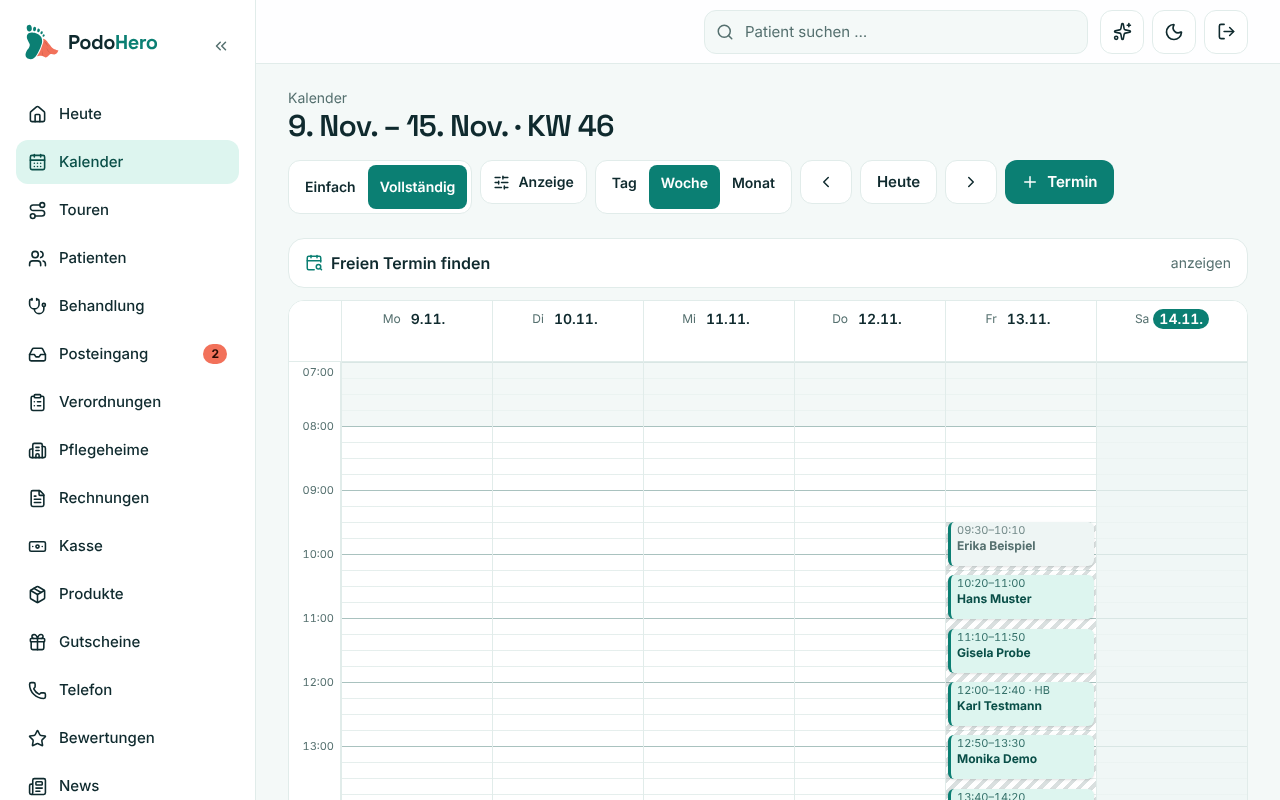
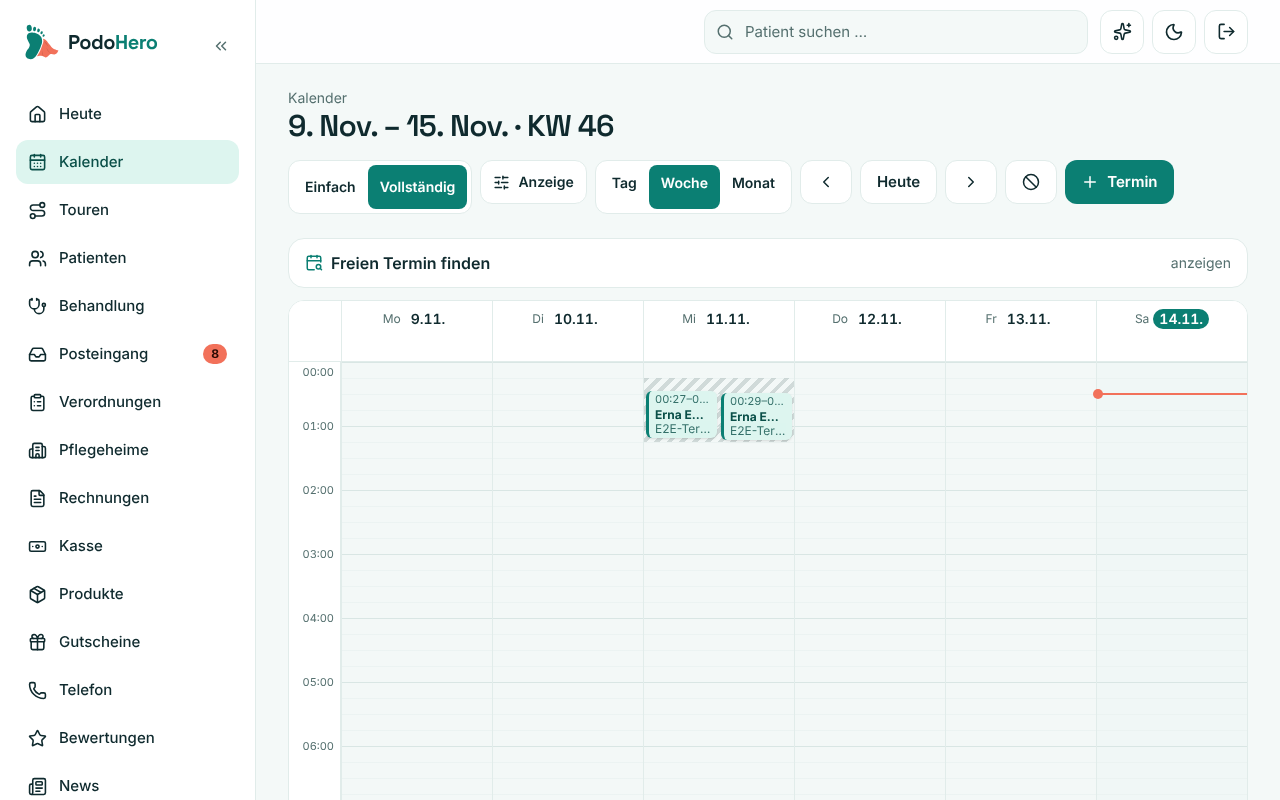
Web-App: Review-Punkte aus PR #73 (Recht, Sicherheit, Stabilität)
- Texte: „Keine Patientendaten auf dem Gerät“, Download-Hinweis, Web-App ohne App Store,
  Code-Sperre, Markenhinweis, Links zu Impressum/Datenschutz
- Datenschutzerklärung § 3: App-Dateien im Browser-Speicher, podo-install-hint, Cookie podo_nav (v0.4)
- Service Worker: keine Weiterleitungen cachen, /_next/static nur einfache Pfade ohne % und Query,
  Icons/Splash/Brand nur flache Dateinamen; Caches beim Abmelden leeren (LogoutForm)
- Proxy-Matcher: /brand/ ausgenommen, nur genau /sw.js
- Offline-Seite prüft alle 25 s /api/health; e2e wartet auf Hydrierung (5× stabil)
- Kein Installationshinweis in der Capacitor-Hülle (appendUserAgent PodoHeroNative / window.Capacitor)
- Update-Hinweis verschwindet bei controllerchange; SW-Version aus GIT_SHA + Build-Zeit, /sw.js statisch
- Kalender-Optionen auf dem Handy unter der Kopfzeile inkl. Safe-Area; Terminzeile: Statusbalken
  überdeckt auf dem Handy nicht mehr die Knöpfe; schmaler Manifest-Screenshot mit Demo-Terminen

Claude-Session: https://claude.ai/code/session_01XUjqP1rgkjcC9NRYu622iv

diff --git a/src/app/(public)/app/page.tsx b/src/app/(public)/app/page.tsx
@@ -1,6 +1,7 @@
 import { LinkButton } from "@/components/ui";
 import { InstallGuide } from "@/components/pwa/install-guide";
 import { pageMeta } from "../_content/site";
+import { TRADEMARKS } from "@/lib/pwa/app-meta";
 
 export const metadata = pageMeta({
   title: "PodoHero als App",
@@ -9,9 +10,9 @@ export const metadata = pageMeta({
 });
 
 const FACTS = [
-  ["Ohne App Store", "PodoHero wird aus dem Browser auf den Home-Bildschirm gelegt. Es gibt nichts herunterzuladen und keine eigene App-Version zu pflegen."],
-  ["Gleicher Stand überall", "iPad in der Behandlung, Computer am Empfang, Smartphone beim Hausbesuch: alle arbeiten mit denselben Daten. Updates kommen von selbst."],
-  ["Keine Daten auf dem Gerät", "Termine und Akten werden immer vom Server geladen und nicht offline auf dem Gerät gespeichert. Ohne Verbindung zeigt die App einen Hinweis."],
+  ["Ohne App Store", "Sie müssen nichts aus einem App Store laden: PodoHero wird aus dem Browser auf den Home-Bildschirm gelegt."],
+  ["Gleicher Stand überall", "iPad in der Behandlung, Computer am Empfang, Smartphone beim Hausbesuch: alle arbeiten mit denselben Daten. Updates kommen automatisch – ein Tipp auf „Neu laden“ genügt."],
+  ["Keine Patientendaten auf dem Gerät", "Termine, Akten und Fotos werden immer frisch vom Server geladen und nicht für die Offline-Nutzung auf dem Gerät gespeichert. Auf dem Gerät liegen nur die Anmeldung und Programmdateien. Ohne Verbindung zeigt die App einen Hinweis."],
 ] as const;
 
 /** Kurze, sachliche Infoseite zur installierbaren Web-App (öffentlich, ohne Praxisdaten). */
@@ -22,6 +23,10 @@ export default function AppInfoPage() {
       <p className="mt-4 text-lg text-muted">
         PodoHero läuft im Browser und lässt sich auf iPhone, iPad, Android-Geräten und am Computer wie eine App installieren:
         mit eigenem Symbol, im Vollbild und ohne Browserleiste.
+      </p>
+      <p className="mt-3 text-[15px] text-muted">
+        PodoHero ist eine Web-App – es gibt keine Version im App Store oder bei Google Play. Für die Nutzung ist eine
+        Internetverbindung nötig.
       </p>
       <ul className="mt-8 grid gap-4 sm:grid-cols-3">
         {FACTS.map(([title, text]) => (
@@ -34,6 +39,8 @@ export default function AppInfoPage() {
       <section aria-labelledby="anleitung" className="mt-10">
         <h2 id="anleitung" className="mb-4 font-display text-2xl font-semibold">So installieren Sie PodoHero</h2>
         <InstallGuide headingLevel={3} />
+        <p className="mt-4 text-sm text-muted">Nutzen Sie für die Praxis nur Geräte mit Code-Sperre.</p>
+        <p className="mt-2 text-xs text-muted">{TRADEMARKS}</p>
       </section>
       <div className="mt-10 flex flex-wrap gap-3">
         <LinkButton href="/login">Anmelden</LinkButton>

diff --git a/e2e/web-app.spec.ts b/e2e/web-app.spec.ts
@@ -178,7 +178,8 @@ test("Service Worker: registriert, nur statische Dateien im Cache, Offline-Seite
   // keine Patientendaten aus einem Cache
   await expect(page.getByRole("heading", { level: 1 })).toHaveText("Keine Internetverbindung");
   await shot(page, "offline-seite");
-  // wieder online → die Seite lädt von selbst neu (Ereignis „online“)
+  // Offline-Seite hydriert (Ereignis-Listener aktiv), dann wieder online → die Seite lädt von selbst neu
+  await expect(page.locator("html[data-offline-ready]")).toHaveCount(1);
   await context.setOffline(false);
   await expect(page).toHaveURL(new RegExp(`/kunden/${ids.patient}$`));
   await expect(page.getByRole("heading", { name: "Keine Internetverbindung" })).toHaveCount(0);
@@ -252,9 +253,17 @@ test("Bildschirmfotos: iPad quer Kalender (und auf Wunsch Manifest-Screenshots)"
     const out = path.resolve(__dirname, "../public/screenshots");
     const narrow = await newDevice(browser, { ...profile("iPhone 15"), viewport: { width: 390, height: 844 } }, { deviceScaleFactor: 2 });
     await narrow.context.addInitScript(standalone);
-    await narrow.page.goto("/heute");
+    // Woche mit Demo-Terminen (Termin-Liste)
+    await narrow.page.goto("/kalender?modus=einfach&ansicht=woche");
     await closeChangelog(narrow.page);
-    await narrow.page.screenshot({ path: path.join(out, "app-heute-narrow.png") });
+    // zum Tag mit den meisten Demo-Terminen scrollen (unter der festen Kopfzeile)
+    await narrow.page.evaluate(() => {
+      const days = Array.from(document.querySelectorAll("main section")).filter((x) => x.querySelector('a[href^="/kalender/termin/"]'));
+      const count = (x: Element) => x.querySelectorAll('a[href^="/kalender/termin/"]').length;
+      const best = days.sort((a, b) => count(b) - count(a))[0];
+      if (best) window.scrollTo(0, window.scrollY + best.getBoundingClientRect().top - 80);
+    });
+    await narrow.page.screenshot({ path: path.join(out, "app-kalender-narrow.png") });
     await narrow.context.close();
     const wide = await newDevice(browser, { ...profile("iPad Pro 11 landscape"), viewport: { width: 1280, height: 800 } }, { deviceScaleFactor: 1 });
     await wide.context.addInitScript(standalone);

diff --git a/src/app/(app)/einstellungen/app/page.tsx b/src/app/(app)/einstellungen/app/page.tsx
@@ -1,4 +1,6 @@
+import Link from "next/link";
 import { Card, CardTitle } from "@/components/ui";
+import { TRADEMARKS } from "@/lib/pwa/app-meta";
 import { InstallGuide } from "@/components/pwa/install-guide";
 import { requireAuth } from "@/lib/auth/session";
 
@@ -21,13 +23,21 @@ export default async function InstallAppSettings() {
         <CardTitle>Gut zu wissen</CardTitle>
         <ul className="flex list-disc flex-col gap-2 pl-5 text-[15px]">
           <li>
-            Praxis- und Patientendaten werden nicht auf dem Gerät gespeichert. Ohne Internetverbindung zeigt die App nur einen
-            Hinweis und lädt weiter, sobald die Verbindung zurück ist.
+            Praxis- und Patientendaten werden von PodoHero nicht auf dem Gerät zwischengespeichert. Ausnahme: Dateien, die Sie
+            selbst herunterladen (z. B. PDFs, Exporte), liegen danach im Download-Ordner des Geräts.
           </li>
+          <li>Ohne Internetverbindung zeigt die App nur einen Hinweis und lädt weiter, sobald die Verbindung zurück ist.</li>
           <li>Updates kommen von selbst. Bei einer neuen Version erscheint „Neue Version verfügbar – Neu laden“.</li>
           <li>In der installierten App gibt es keine Browser-Zurück-Taste – nutze die Zurück-Links oben auf den Seiten.</li>
+          <li>Nutzen Sie für die Praxis nur Geräte mit Code-Sperre.</li>
           <li>Auf gemeinsam genutzten Geräten nach der Arbeit abmelden oder den Übergabe-Modus nutzen.</li>
         </ul>
+        <p className="mt-4 text-sm">
+          <Link href="/impressum" className="font-semibold text-primary hover:underline">Impressum</Link>
+          {" · "}
+          <Link href="/datenschutz" className="font-semibold text-primary hover:underline">Datenschutz</Link>
+        </p>
+        <p className="mt-2 text-xs text-muted">{TRADEMARKS}</p>
       </Card>
     </div>
   );

diff --git a/src/app/(app)/layout.tsx b/src/app/(app)/layout.tsx
@@ -1,4 +1,5 @@
 import Link from "next/link";
+import { LogoutForm } from "@/components/pwa/logout-form";
 import { LogOut, Sparkles } from "lucide-react";
 import { AccessBanner } from "@/components/access-banner";
 import { cookies } from "next/headers";
@@ -57,11 +58,11 @@ function PlatformOnlyShell({ name, totpEnabled, switcher, children }: { name: st
           {switcher?.show ? <OrgSwitcher model={{ ...switcher, platformLink: false }} /> : null}
           <NewsLink />
           <ThemeToggle />
-          <form action={logoutAction}>
+          <LogoutForm action={logoutAction}>
             <button type="submit" aria-label="Abmelden" title="Abmelden" className="inline-flex size-11 items-center justify-center rounded-xl border border-border bg-surface hover:bg-surface-2">
               <LogOut size={19} aria-hidden />
             </button>
-          </form>
+          </LogoutForm>
         </div>
       </header>
       <main className="flex-1 pt-6 pr-[max(1rem,env(safe-area-inset-right))] pb-[max(2.5rem,env(safe-area-inset-bottom))] pl-[max(1rem,env(safe-area-inset-left))] lg:px-8">
@@ -125,7 +126,7 @@ export default async function AppLayout({ children }: LayoutProps<"/">) {
             <OrgSwitcher model={switcher} />
             <NewsLink />
             <ThemeToggle />
-            <form action={logoutAction}>
+            <LogoutForm action={logoutAction}>
               <button
                 type="submit"
                 aria-label="Abmelden"
@@ -134,7 +135,7 @@ export default async function AppLayout({ children }: LayoutProps<"/">) {
               >
                 <LogOut size={19} aria-hidden />
               </button>
-            </form>
+            </LogoutForm>
           </div>
         </header>
         <AccessBanner auth={auth} />

diff --git a/src/app/offline/retry-button.tsx b/src/app/offline/retry-button.tsx
@@ -3,12 +3,33 @@
 import { useEffect } from "react";
 import { RotateCw } from "lucide-react";
 
-/** Lädt die aufgerufene Seite neu – auf Knopfdruck oder von selbst, sobald der Browser wieder online meldet. */
+/** Abstand der automatischen Prüfung, solange die Seite sichtbar ist */
+const PROBE_MS = 25_000;
+
+/**
+ * Lädt die aufgerufene Seite neu – auf Knopfdruck, sobald der Browser „online“ meldet, und zusätzlich alle 25 s,
+ * wenn der Server wieder antwortet (WLAN ohne Internet oder Server-Neustart lösen kein „online“-Ereignis aus).
+ * data-offline-ready am <html>: Seite ist hydriert (für Tests).
+ */
 export function RetryButton() {
   useEffect(() => {
     const onOnline = () => location.reload();
     addEventListener("online", onOnline);
-    return () => removeEventListener("online", onOnline);
+    const timer = setInterval(() => {
+      if (document.visibilityState !== "visible") return;
+      fetch("/api/health", { cache: "no-store", credentials: "omit" })
+        .then((r) => {
+          if (r.ok) location.reload();
+        })
+        .catch(() => {
+          // weiterhin offline
+        });
+    }, PROBE_MS);
+    document.documentElement.dataset.offlineReady = "1";
+    return () => {
+      removeEventListener("online", onOnline);
+      clearInterval(timer);
+    };
   }, []);
   return (
     <button

diff --git a/src/lib/pwa/service-worker.ts b/src/lib/pwa/service-worker.ts
@@ -16,7 +16,7 @@ export const swCacheName = (version: string) => `${SW_CACHE_PREFIX}${version.rep
  *   aus dem Netz mit Offline-Seite als Ersatz, alles andere unberührt.
  * - Aktualisierung: eine neue Version wartet, bis die Nutzer:in „Neu laden“ bestätigt (Nachricht SKIP_WAITING,
  *   siehe src/components/pwa/pwa-client.tsx) – kein ungefragtes Neuladen mitten in einer Dokumentation.
- * - Nachricht CLEAR_CACHES (z. B. beim Abmelden): löscht alle Caches dieser App.
+ * - Nachricht CLEAR_CACHES (beim Abmelden, src/components/pwa/logout-form.tsx): löscht alle Caches dieser App.
  */
 export function buildServiceWorker(version: string): string {
   const cache = swCacheName(version);
@@ -70,7 +70,8 @@ function cacheFirst(request) {
       if (hit) return hit;
       return fetch(request).then(function (res) {
         var cc = res.headers.get("Cache-Control") || "";
-        if (res.ok && res.type === "basic" && !/no-store|private/i.test(cc)) cache.put(request, res.clone());
+        // keine Weiterleitungen (z. B. zum Login) und nichts Privates speichern
+        if (res.ok && !res.redirected && res.type === "basic" && !/no-store|private/i.test(cc)) cache.put(request, res.clone());
         return res;
       });
     });

diff --git a/src/components/pwa/install-store.ts b/src/components/pwa/install-store.ts
@@ -15,6 +15,8 @@ export type BeforeInstallPromptEvent = Event & {
 declare global {
   interface Window {
     __podoBip?: BeforeInstallPromptEvent | null;
+    /** von der nativen Capacitor-Hülle eingebunden (capacitor.config.ts) */
+    Capacitor?: { isNativePlatform?: () => boolean };
   }
   interface Navigator {
     /** iOS Safari: true, wenn vom Home-Bildschirm gestartet */
@@ -56,10 +58,17 @@ function subscribe(cb: () => void) {
   };
 }
 
-/** Läuft die Seite als installierte App (Home-Bildschirm/App-Fenster)? */
+/** Läuft die Seite in der nativen iOS-Hülle (Capacitor, capacitor.config.ts → appendUserAgent)? */
+export function isNativeShell(): boolean {
+  if (typeof window === "undefined") return false;
+  return /PodoHeroNative/.test(navigator.userAgent) || window.Capacitor?.isNativePlatform?.() === true;
+}
+
+/** Läuft die Seite als installierte App (Home-Bildschirm/App-Fenster oder native Hülle)? */
 export function isStandalone(): boolean {
   if (typeof window === "undefined") return false;
   return (
+    isNativeShell() ||
     navigator.standalone === true ||
     matchMedia("(display-mode: standalone)").matches ||
     matchMedia("(display-mode: minimal-ui)").matches ||

diff --git a/src/app/(app)/kalender/calendar-options-panel.tsx b/src/app/(app)/kalender/calendar-options-panel.tsx
@@ -61,7 +61,7 @@ export function CalendarOptionsPanel({ mode, options, persist, hidden, stateName
         key={JSON.stringify(options)}
         action={persist ? saveCalendarOptionsAction : "/kalender"}
         method={persist ? undefined : "get"}
-        className={`z-40 flex flex-col gap-1 rounded-xl border border-border bg-surface p-2 shadow-lg max-sm:fixed max-sm:inset-x-4 max-sm:top-20 max-sm:max-h-[calc(100dvh-6rem)] max-sm:overflow-y-auto sm:absolute sm:mt-2 sm:w-80 sm:max-w-[calc(100vw-2rem)] ${alignLeft ? "sm:left-0" : "sm:right-0"}`}
+        className={`z-40 flex flex-col gap-1 rounded-xl border border-border bg-surface p-2 shadow-lg max-sm:fixed max-sm:inset-x-[max(1rem,env(safe-area-inset-left))] max-sm:top-[calc(5rem+env(safe-area-inset-top))] max-sm:max-h-[calc(100dvh-6rem-env(safe-area-inset-top)-env(safe-area-inset-bottom))] max-sm:overflow-y-auto sm:absolute sm:mt-2 sm:w-80 sm:max-w-[calc(100vw-2rem)] ${alignLeft ? "sm:left-0" : "sm:right-0"}`}
         aria-label="Anzeige-Optionen"
       >
         {Object.entries(hidden).map(([k, v]) => <input key={k} type="hidden" name={k} value={v} />)}

diff --git a/src/lib/pwa/sw-rules.ts b/src/lib/pwa/sw-rules.ts
@@ -52,12 +52,10 @@ export function classifyRequest(req: SwRequestInfo): SwDecision {
     if (p.indexOf("/api/") === 0 || /\.[a-z0-9]{2,5}$/i.test(p)) return "network";
     return "navigate";
   }
-  // RSC-Daten (Client-Navigation) und alles mit Abfrageparametern außerhalb von /_next/static nie cachen
-  if (u.searchParams.has("_rsc")) return "network";
-  if (p.indexOf("/_next/static/") === 0) return "static";
-  if (u.search) return "network";
-  if (p.indexOf("/icons/") === 0 || p.indexOf("/splash/") === 0 || p.indexOf("/brand/") === 0) {
-    return /\.(png|svg|ico|webp)$/i.test(p) ? "static" : "network";
-  }
+  // RSC-Daten (Client-Navigation), alles mit Abfrageparametern und kodierte Pfade (%) nie cachen
+  if (u.search || p.indexOf("%") !== -1) return "network";
+  // gehashte Next.js-Dateien: nur einfache Pfadzeichen
+  if (/^\/_next\/static\/[A-Za-z0-9._~/-]+$/.test(p)) return "static";
+  if (/^\/(icons|splash|brand)\/[A-Za-z0-9._-]+\.(png|svg|ico|webp)$/i.test(p)) return "static";
   return "network";
 }

diff --git a/src/app/(auth)/entsperren/page.tsx b/src/app/(auth)/entsperren/page.tsx
@@ -1,4 +1,5 @@
 import { redirect } from "next/navigation";
+import { LogoutForm } from "@/components/pwa/logout-form";
 import { Lock } from "lucide-react";
 import { getSessionIncludingLocked } from "@/lib/auth/session";
 import { logoutAction } from "../actions";
@@ -24,9 +25,9 @@ export default async function UnlockPage() {
         Dieses Gerät wurde an eine Patientin bzw. einen Patienten übergeben. Zum Entsperren gibt {row.user.name.split(" ")[0]} die eigene {row.user.unlockPinHash ? "PIN oder das Passwort" : "Passwort"} ein.
       </p>
       <UnlockForm hasPin={!!row.user.unlockPinHash} />
-      <form action={logoutAction}>
+      <LogoutForm action={logoutAction}>
         <button type="submit" className="text-sm font-semibold text-muted hover:text-text">Stattdessen abmelden</button>
-      </form>
+      </LogoutForm>
       <p className="text-xs text-muted">Nach 5 Fehlversuchen oder 30 Minuten ist eine neue Anmeldung nötig.</p>
     </div>
   );

diff --git a/src/app/(auth)/login/2fa-einrichten/page.tsx b/src/app/(auth)/login/2fa-einrichten/page.tsx
@@ -1,4 +1,5 @@
 import { redirect } from "next/navigation";
+import { LogoutForm } from "@/components/pwa/logout-form";
 import { getAuthState, getSession } from "@/lib/auth/session";
 import { TotpSetup } from "@/app/(app)/einstellungen/sicherheit/totp-setup";
 import { confirmOwnTotpAction, logoutAction, startOwnTotpAction } from "../../actions";
@@ -28,9 +29,9 @@ export default async function TotpEnrollPage() {
         Funktioniert mit jeder Authenticator-App (z. B. Apple Passwörter, Google Authenticator, 1Password).
       </p>
       <TotpSetup email={row.user.email} startAction={startOwnTotpAction} confirmAction={confirmOwnTotpAction} />
-      <form action={logoutAction} className="mt-6 text-center">
+      <LogoutForm action={logoutAction} className="mt-6 text-center">
         <button type="submit" className="text-sm font-semibold text-muted hover:text-text">Abmelden</button>
-      </form>
+      </LogoutForm>
     </>
   );
 }

diff --git a/next.config.ts b/next.config.ts
@@ -14,8 +14,12 @@ const securityHeaders = [
 /**
  * Build-Version für den Service Worker (src/app/sw.js/route.ts): ändert sich mit jedem Build, damit installierte
  * Apps „Neue Version verfügbar“ anzeigen und alte Datei-Caches löschen. Wird beim Build fest eingesetzt.
+ * Aufbau: Commit (Build-Argument GIT_SHA aus deploy/update.sh bzw. install.sh, sonst weggelassen) + Build-Zeitpunkt;
+ * PODO_APP_VERSION überschreibt beides.
  */
-const appVersion = process.env.PODO_APP_VERSION || process.env.GIT_COMMIT || new Date().toISOString().replace(/[^0-9]/g, "").slice(0, 14);
+const buildStamp = new Date().toISOString().replace(/[^0-9]/g, "").slice(0, 14);
+const gitSha = process.env.GIT_SHA && process.env.GIT_SHA !== "unknown" ? process.env.GIT_SHA : "";
+const appVersion = process.env.PODO_APP_VERSION || (gitSha ? `${gitSha}-${buildStamp}` : buildStamp);
 
 const nextConfig: NextConfig = {
   env: { PODO_APP_VERSION: appVersion },
